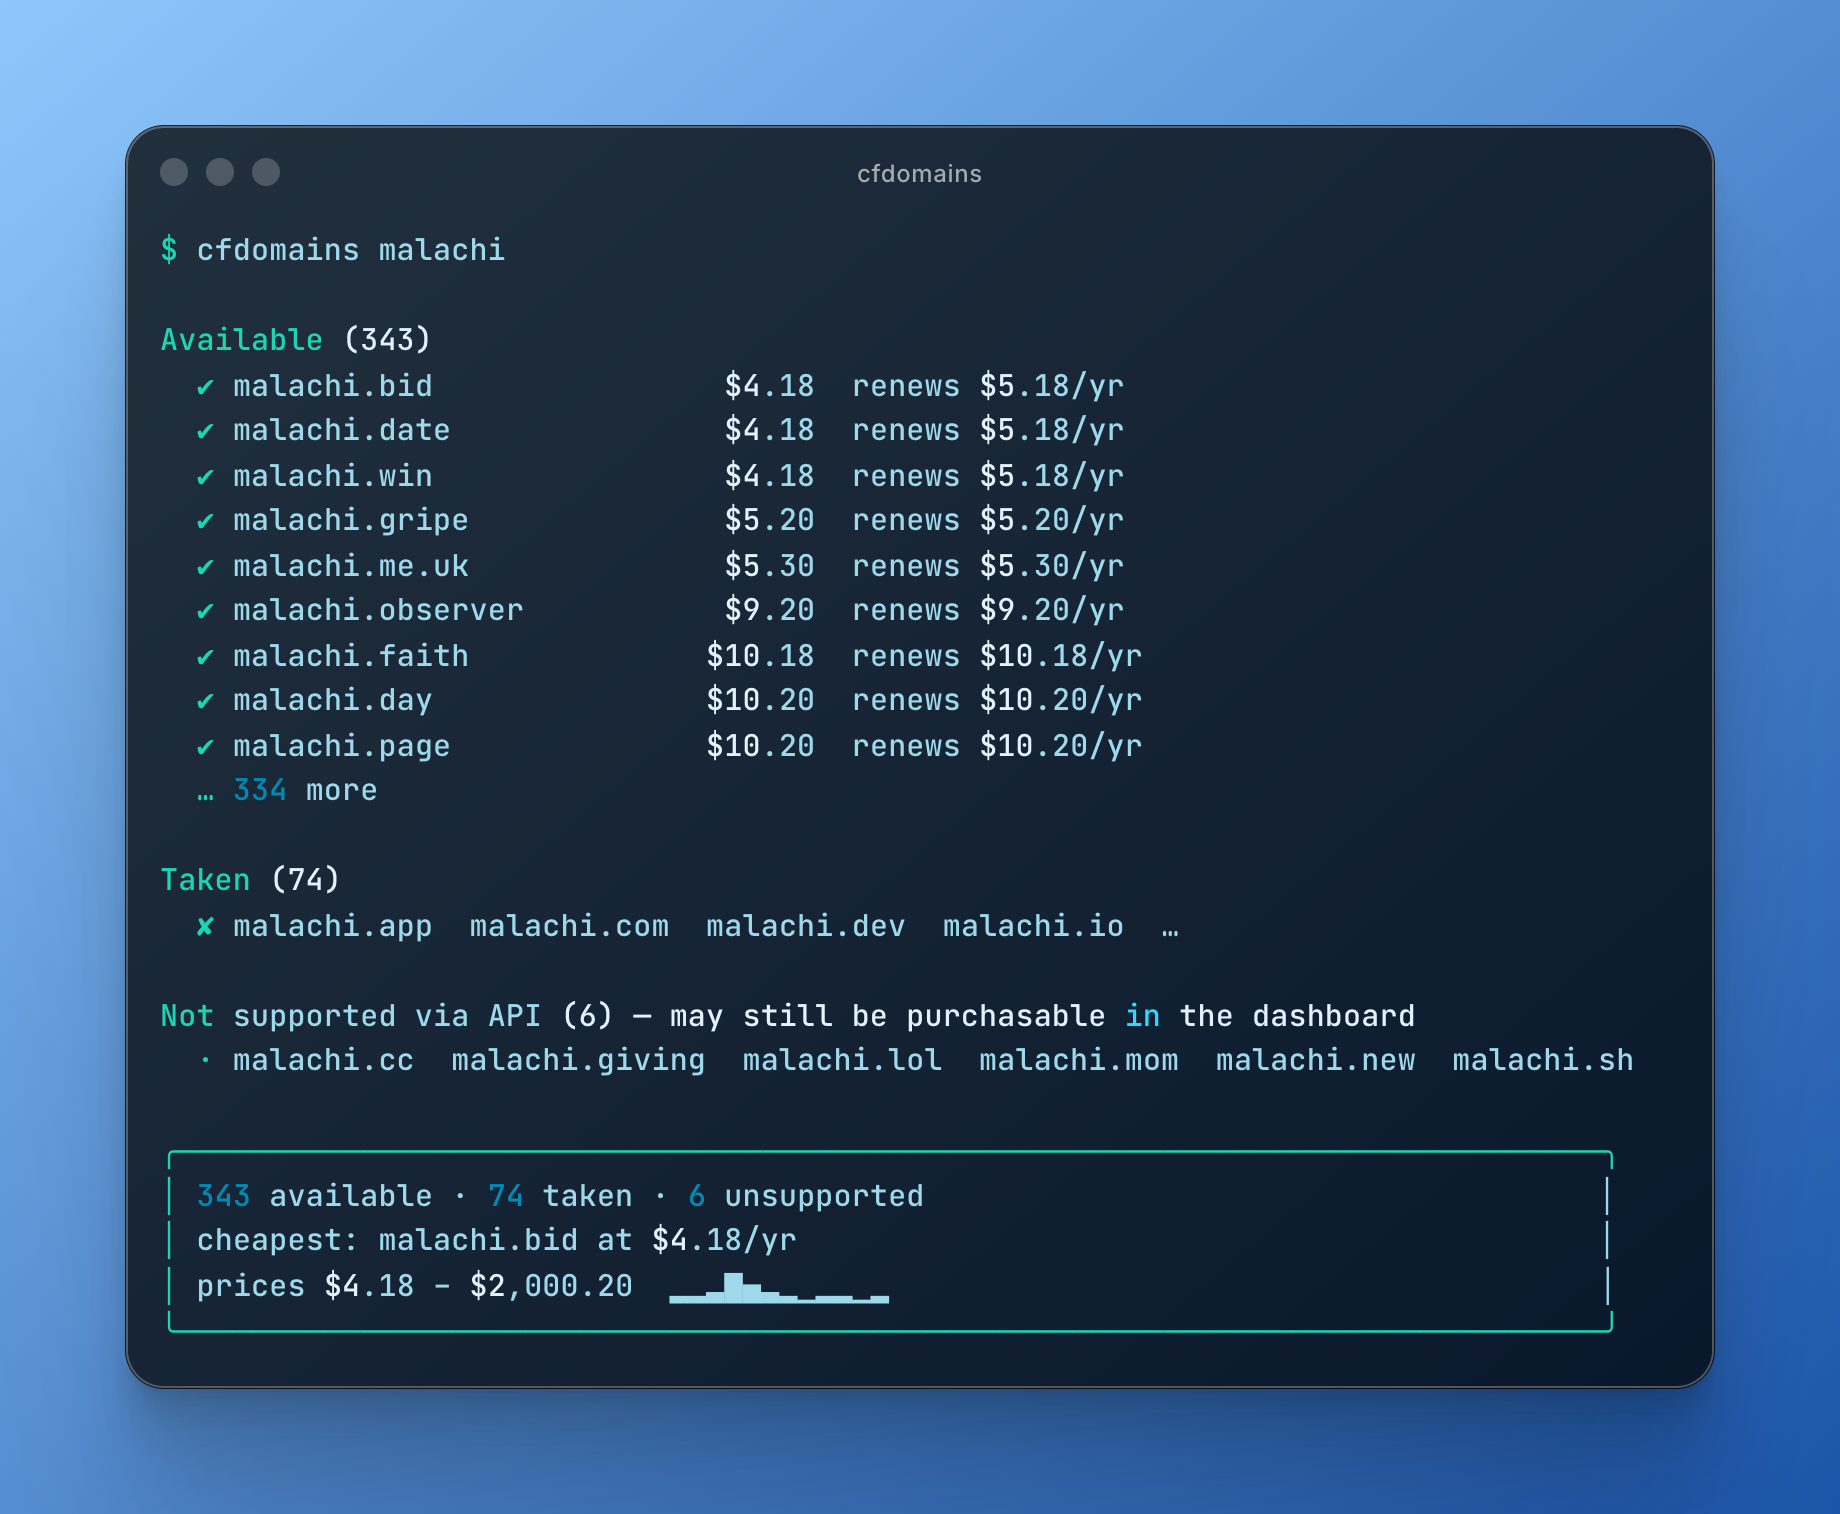
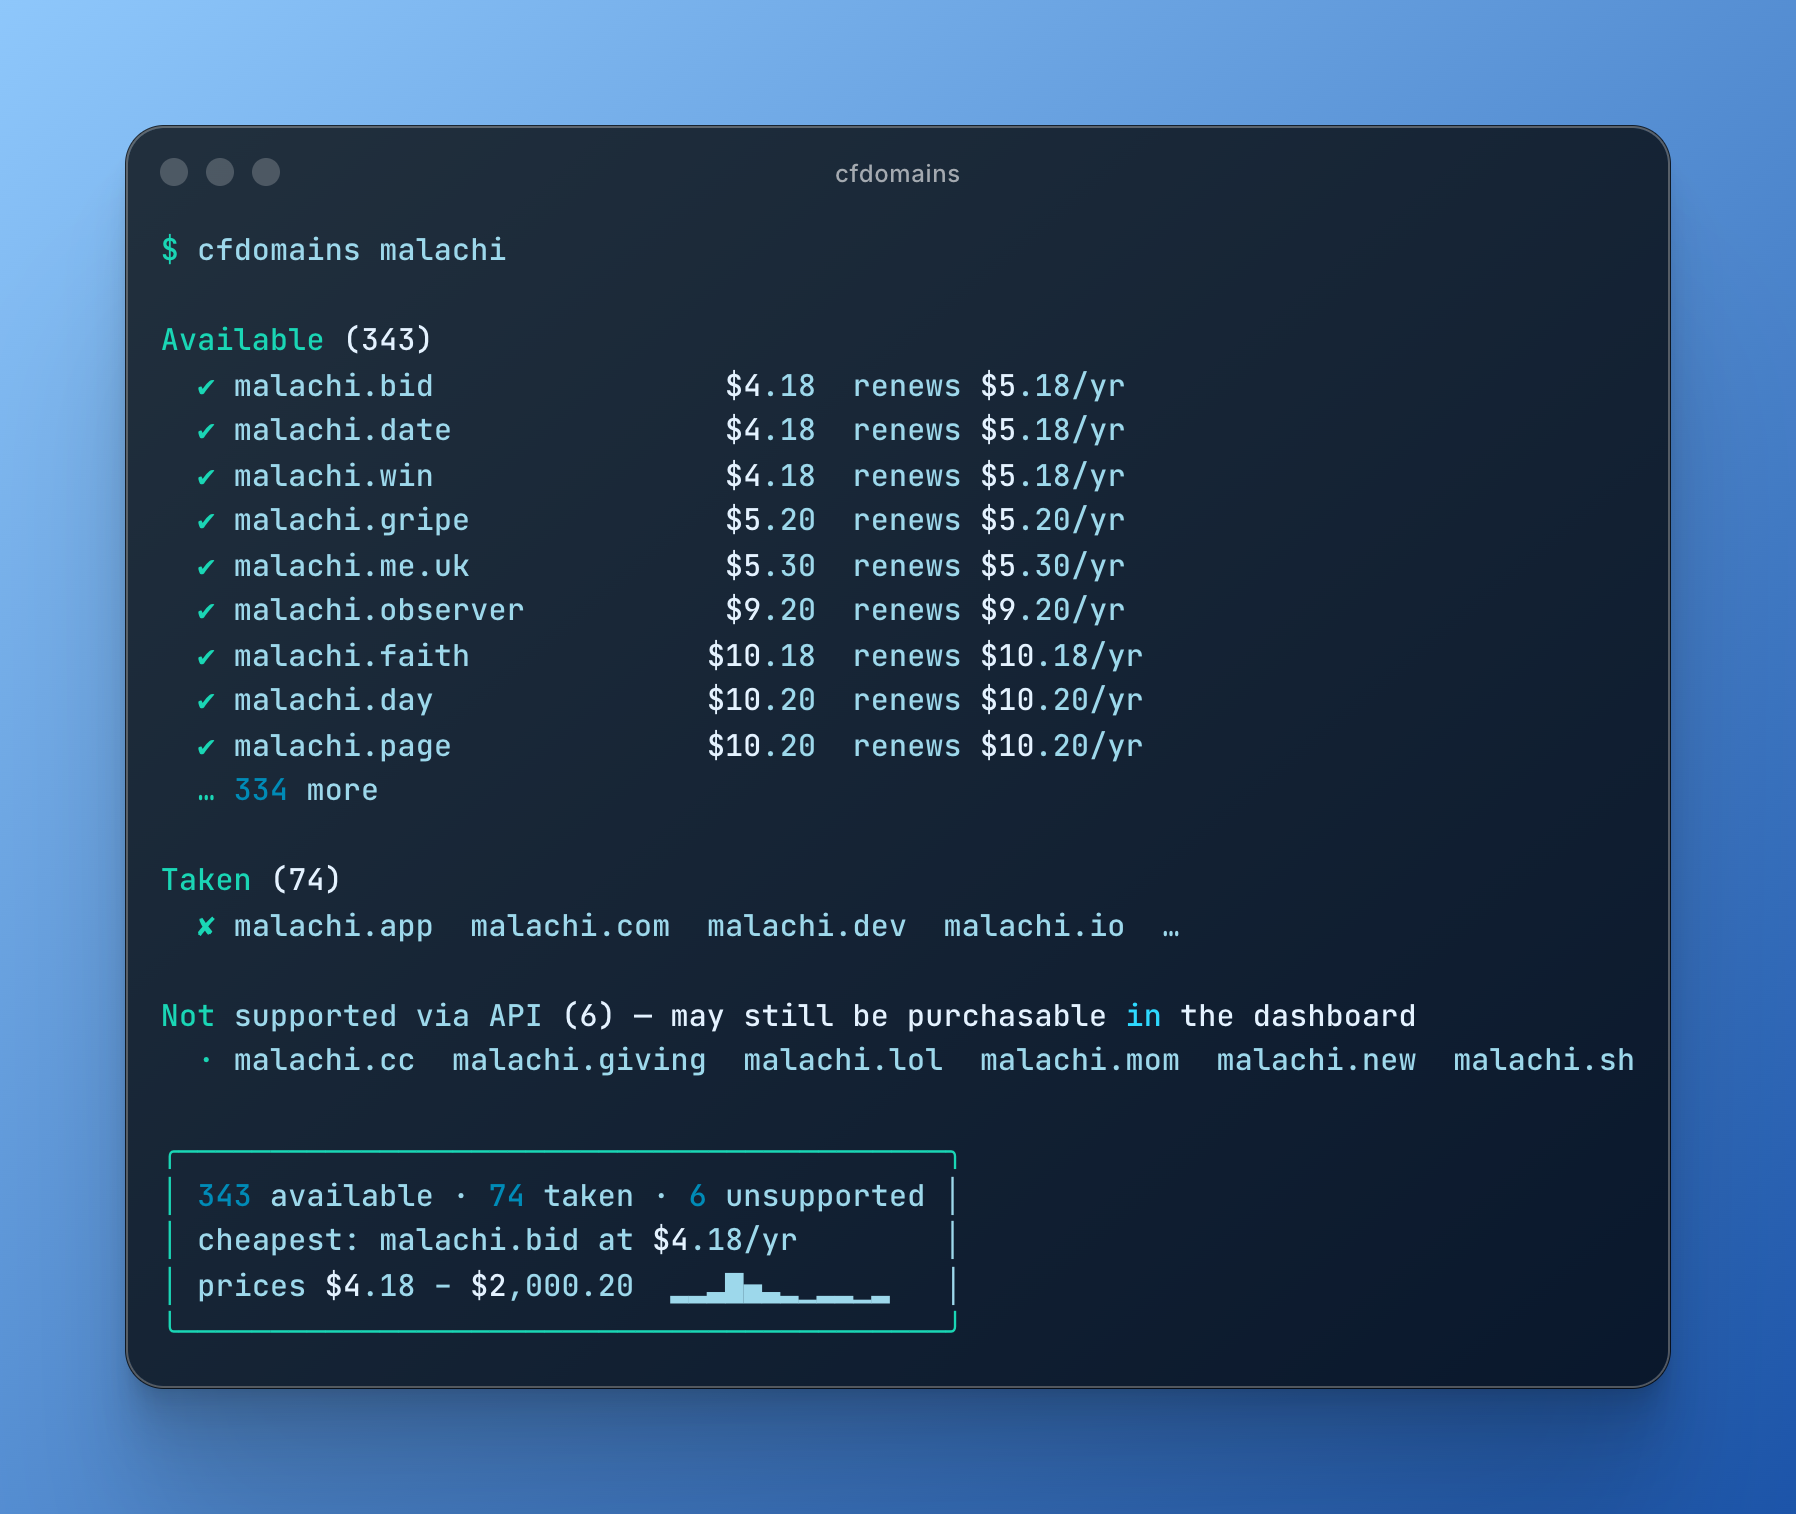
Revert "Stretch the summary box to terminal width"
This reverts commit 1b5dbfba96a6209ca24df64e7e39a82ac0393285.

diff --git a/scripts/screenshots.ts b/scripts/screenshots.ts
@@ -17,13 +17,6 @@ interface Shot {
   readonly code: string
 }
 
-// The summary receipt box stretches to the terminal width (80 columns here).
-const receiptBox = (lines: ReadonlyArray<string>): ReadonlyArray<string> => [
-  `╭${"─".repeat(78)}╮`,
-  ...lines.map((line) => `│ ${line.padEnd(76)} │`),
-  `╰${"─".repeat(78)}╯`
-]
-
 const shots: ReadonlyArray<Shot> = [
   {
     file: "docs/fullsweep.png",
@@ -50,11 +43,11 @@ const shots: ReadonlyArray<Shot> = [
       "Not supported via API (6) — may still be purchasable in the dashboard",
       "  · malachi.cc  malachi.giving  malachi.lol  malachi.mom  malachi.new  malachi.sh",
       "",
-      ...receiptBox([
-        "343 available · 74 taken · 6 unsupported",
-        "cheapest: malachi.bid at $4.18/yr",
-        "prices $4.18 – $2,000.20  ▂▂▃█▅▃▂▁▂▂▁▂"
-      ])
+      "╭──────────────────────────────────────────╮",
+      "│ 343 available · 74 taken · 6 unsupported │",
+      "│ cheapest: malachi.bid at $4.18/yr        │",
+      "│ prices $4.18 – $2,000.20  ▂▂▃█▅▃▂▁▂▂▁▂   │",
+      "╰──────────────────────────────────────────╯"
     ].join("\n")
   },
   {
@@ -74,10 +67,10 @@ const shots: ReadonlyArray<Shot> = [
       "Taken (4)",
       "  ✘ malachi.app  malachi.com  malachi.dev  malachi.io",
       "",
-      ...receiptBox([
-        "5 available · 4 taken · 0 unsupported",
-        "cheapest: malachi.day at $10.20/yr"
-      ])
+      "╭───────────────────────────────────────╮",
+      "│ 5 available · 4 taken · 0 unsupported │",
+      "│ cheapest: malachi.day at $10.20/yr    │",
+      "╰───────────────────────────────────────╯"
     ].join("\n")
   },
   {

diff --git a/src/Report.ts b/src/Report.ts
@@ -55,10 +55,9 @@ const sparkline = (costs: ReadonlyArray<number>, buckets = 12): string => {
 /** Rounded box; padding is computed from the unstyled text so ANSI codes don't skew it. */
 const box = (
   content: ReadonlyArray<{ readonly plain: string; readonly styled: string }>,
-  frame: (line: string) => string,
-  minInner: number
+  frame: (line: string) => string
 ): ReadonlyArray<string> => {
-  const inner = Math.max(minInner, ...content.map((l) => l.plain.length))
+  const inner = Math.max(...content.map((l) => l.plain.length))
   return [
     frame(`╭${"─".repeat(inner + 2)}╮`),
     ...content.map((l) =>
@@ -89,8 +88,6 @@ export const render = (
     readonly availableOnly: boolean
     readonly accountId: string
     readonly links: boolean
-    /** Terminal width; the summary box stretches to fill it. */
-    readonly columns: number
   },
   style: Style
 ): string => {
@@ -205,7 +202,7 @@ export const render = (
     })
   }
   lines.push("")
-  lines.push(...box(summary, dim, options.columns - 4))
+  lines.push(...box(summary, dim))
   lines.push(dim(`buy: ${purchaseUrl(options.accountId, options.name)}`))
 
   return lines.join("\n")

diff --git a/src/Cli.ts b/src/Cli.ts
@@ -210,8 +210,7 @@ const check = Effect.fn(function*(input: {
       name: query,
       availableOnly: input.available,
       accountId: credentials.accountId,
-      links: input.links,
-      columns: process.stdout.columns ?? 80
+      links: input.links
     }, style))
   }
   if (failures.length > 0) {
